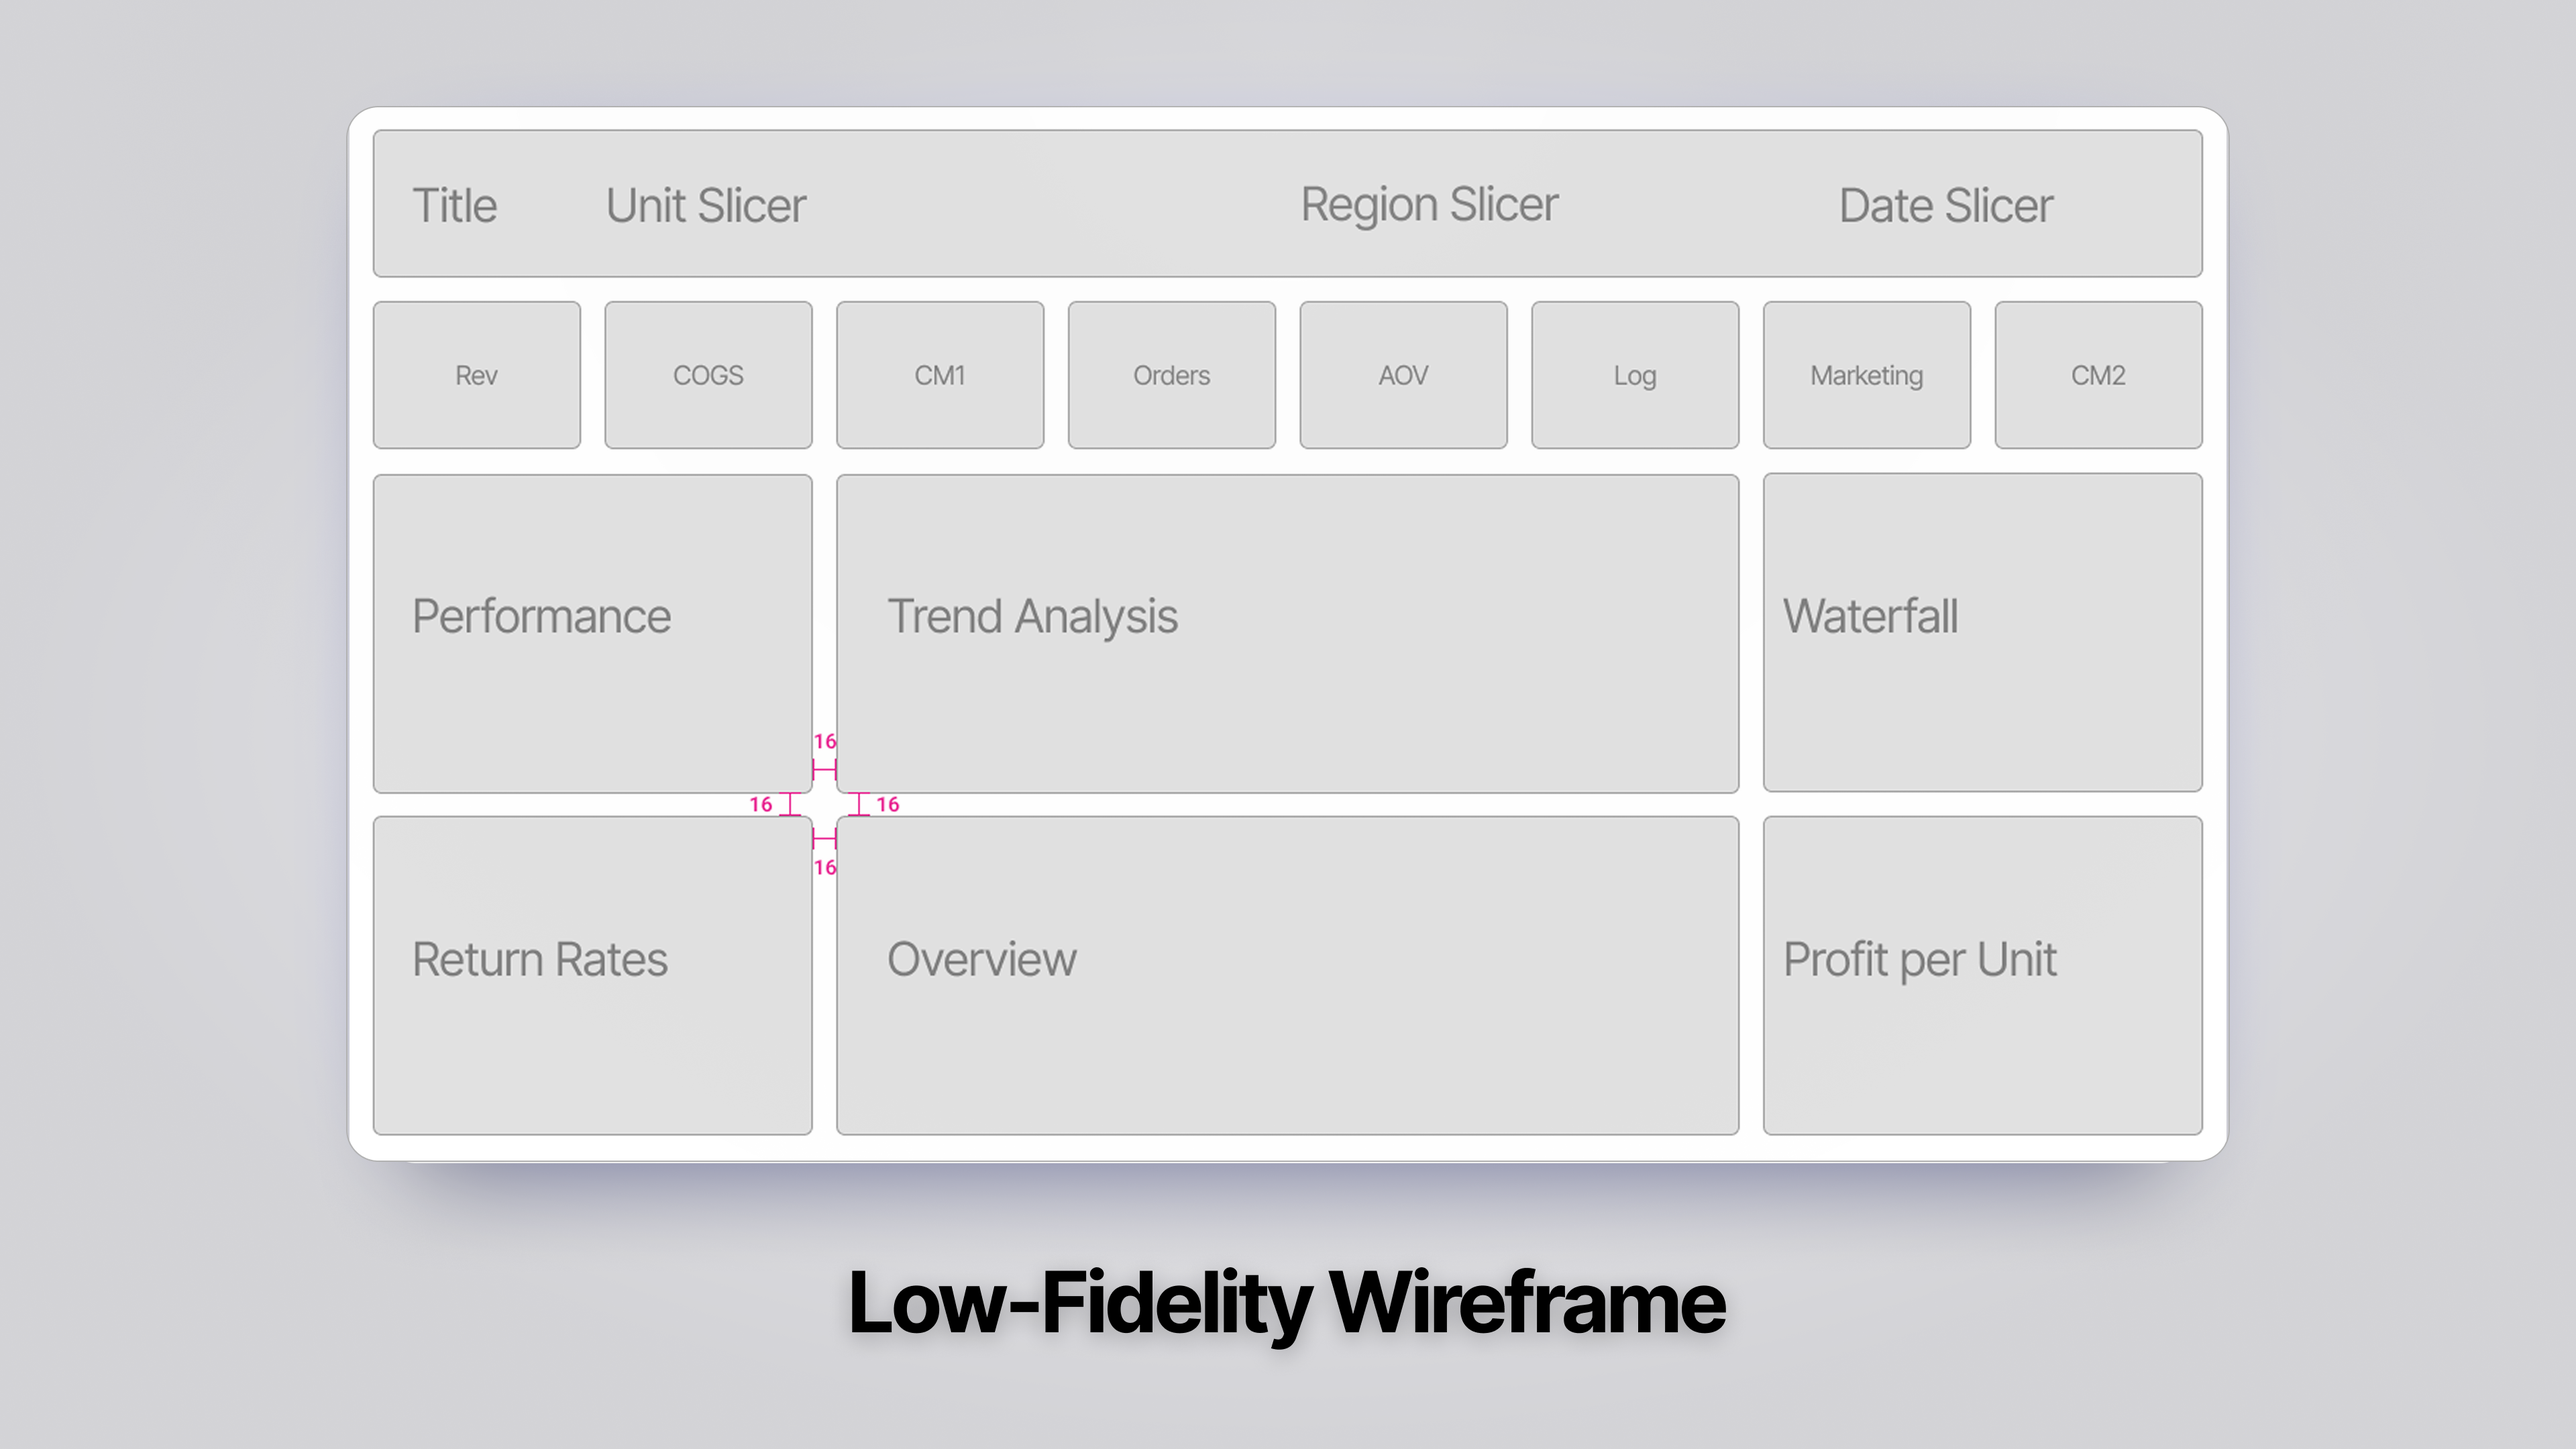
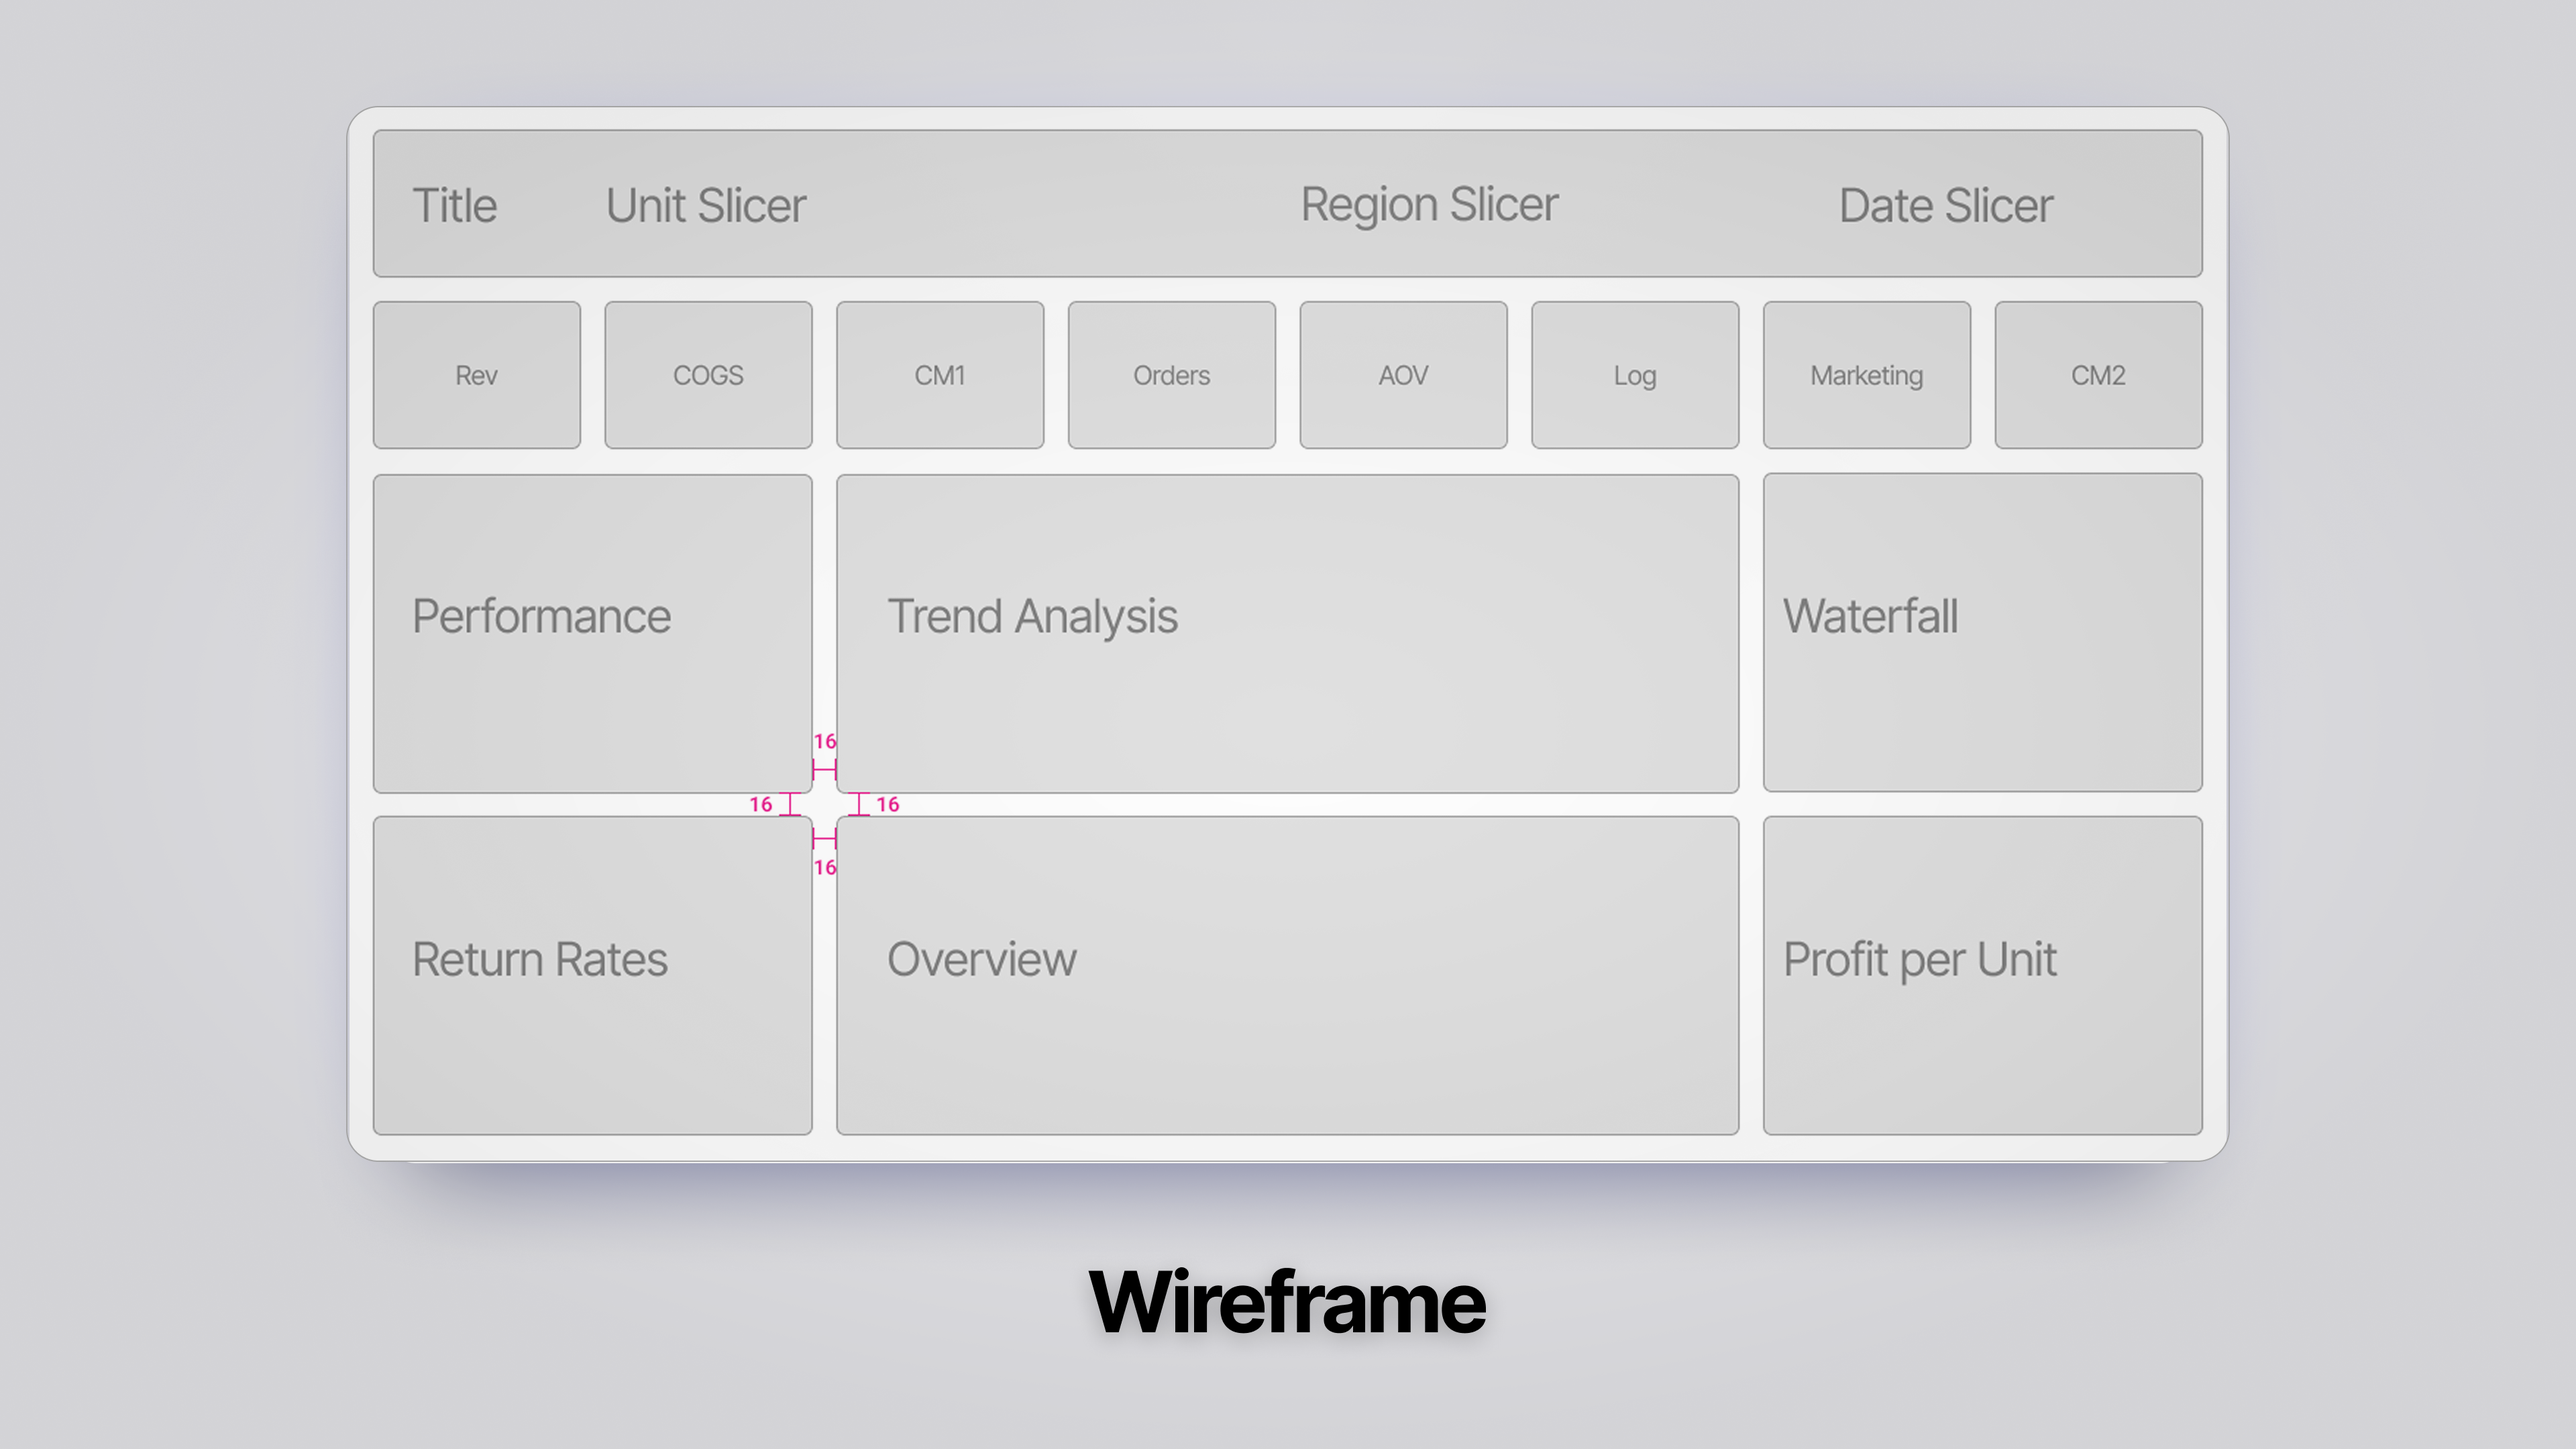
added further flowcharts and updated docu assets

Changed region(s): [[0.3125, 0.8685, 0.6875, 0.9306]]

diff --git a/README.md b/README.md
@@ -14,6 +14,16 @@ The core of this project is the top-level analytical dashboard, designed to answ
 
 ![Vantage Dashboard](vantage-rebuild/viz/vantage_dashboard_main.png)
 
+This project is a high level reporting use case for strategic insights. The dashboard is a part of a typical BI ecosystem, where in a company there are various distinct functional domains with varying requirements.
+
+![Vantage Architecture](vantage-rebuild/viz/vantage_dashboard_bi_architecture.png)
+
+Git Version Control serves as the code management layer that syncs with the Fabric Environment, where different workspaces are being used to develop and version control the data assets, ensuring changes in the semantic model are only valid with a review. Following this workflow, assets are built in the (1) Dev Workspace, promoted to the (2) Test Workspace, and finally deployed into the (3) Prod workspace.
+
+![Vantage Workspaces](vantage-rebuild/viz/vantage_dashboard_bi_workspaces.png)
+
+Users consume only the data from the Prod layer, which has been vetted; in that layer, Row-Level Security (RLS) is applied to the semantic model to manage access rights.
+
 ### UI / UX / DX
 To ensure fast development and maintain clear structures, we utilize a 16px Power BI grid aligned with a classic 4px grid system. This approach provides a solid foundation for optimal spacing and layout, enhancing both the developer experience (DX) and the end-user experience (UX).
 
